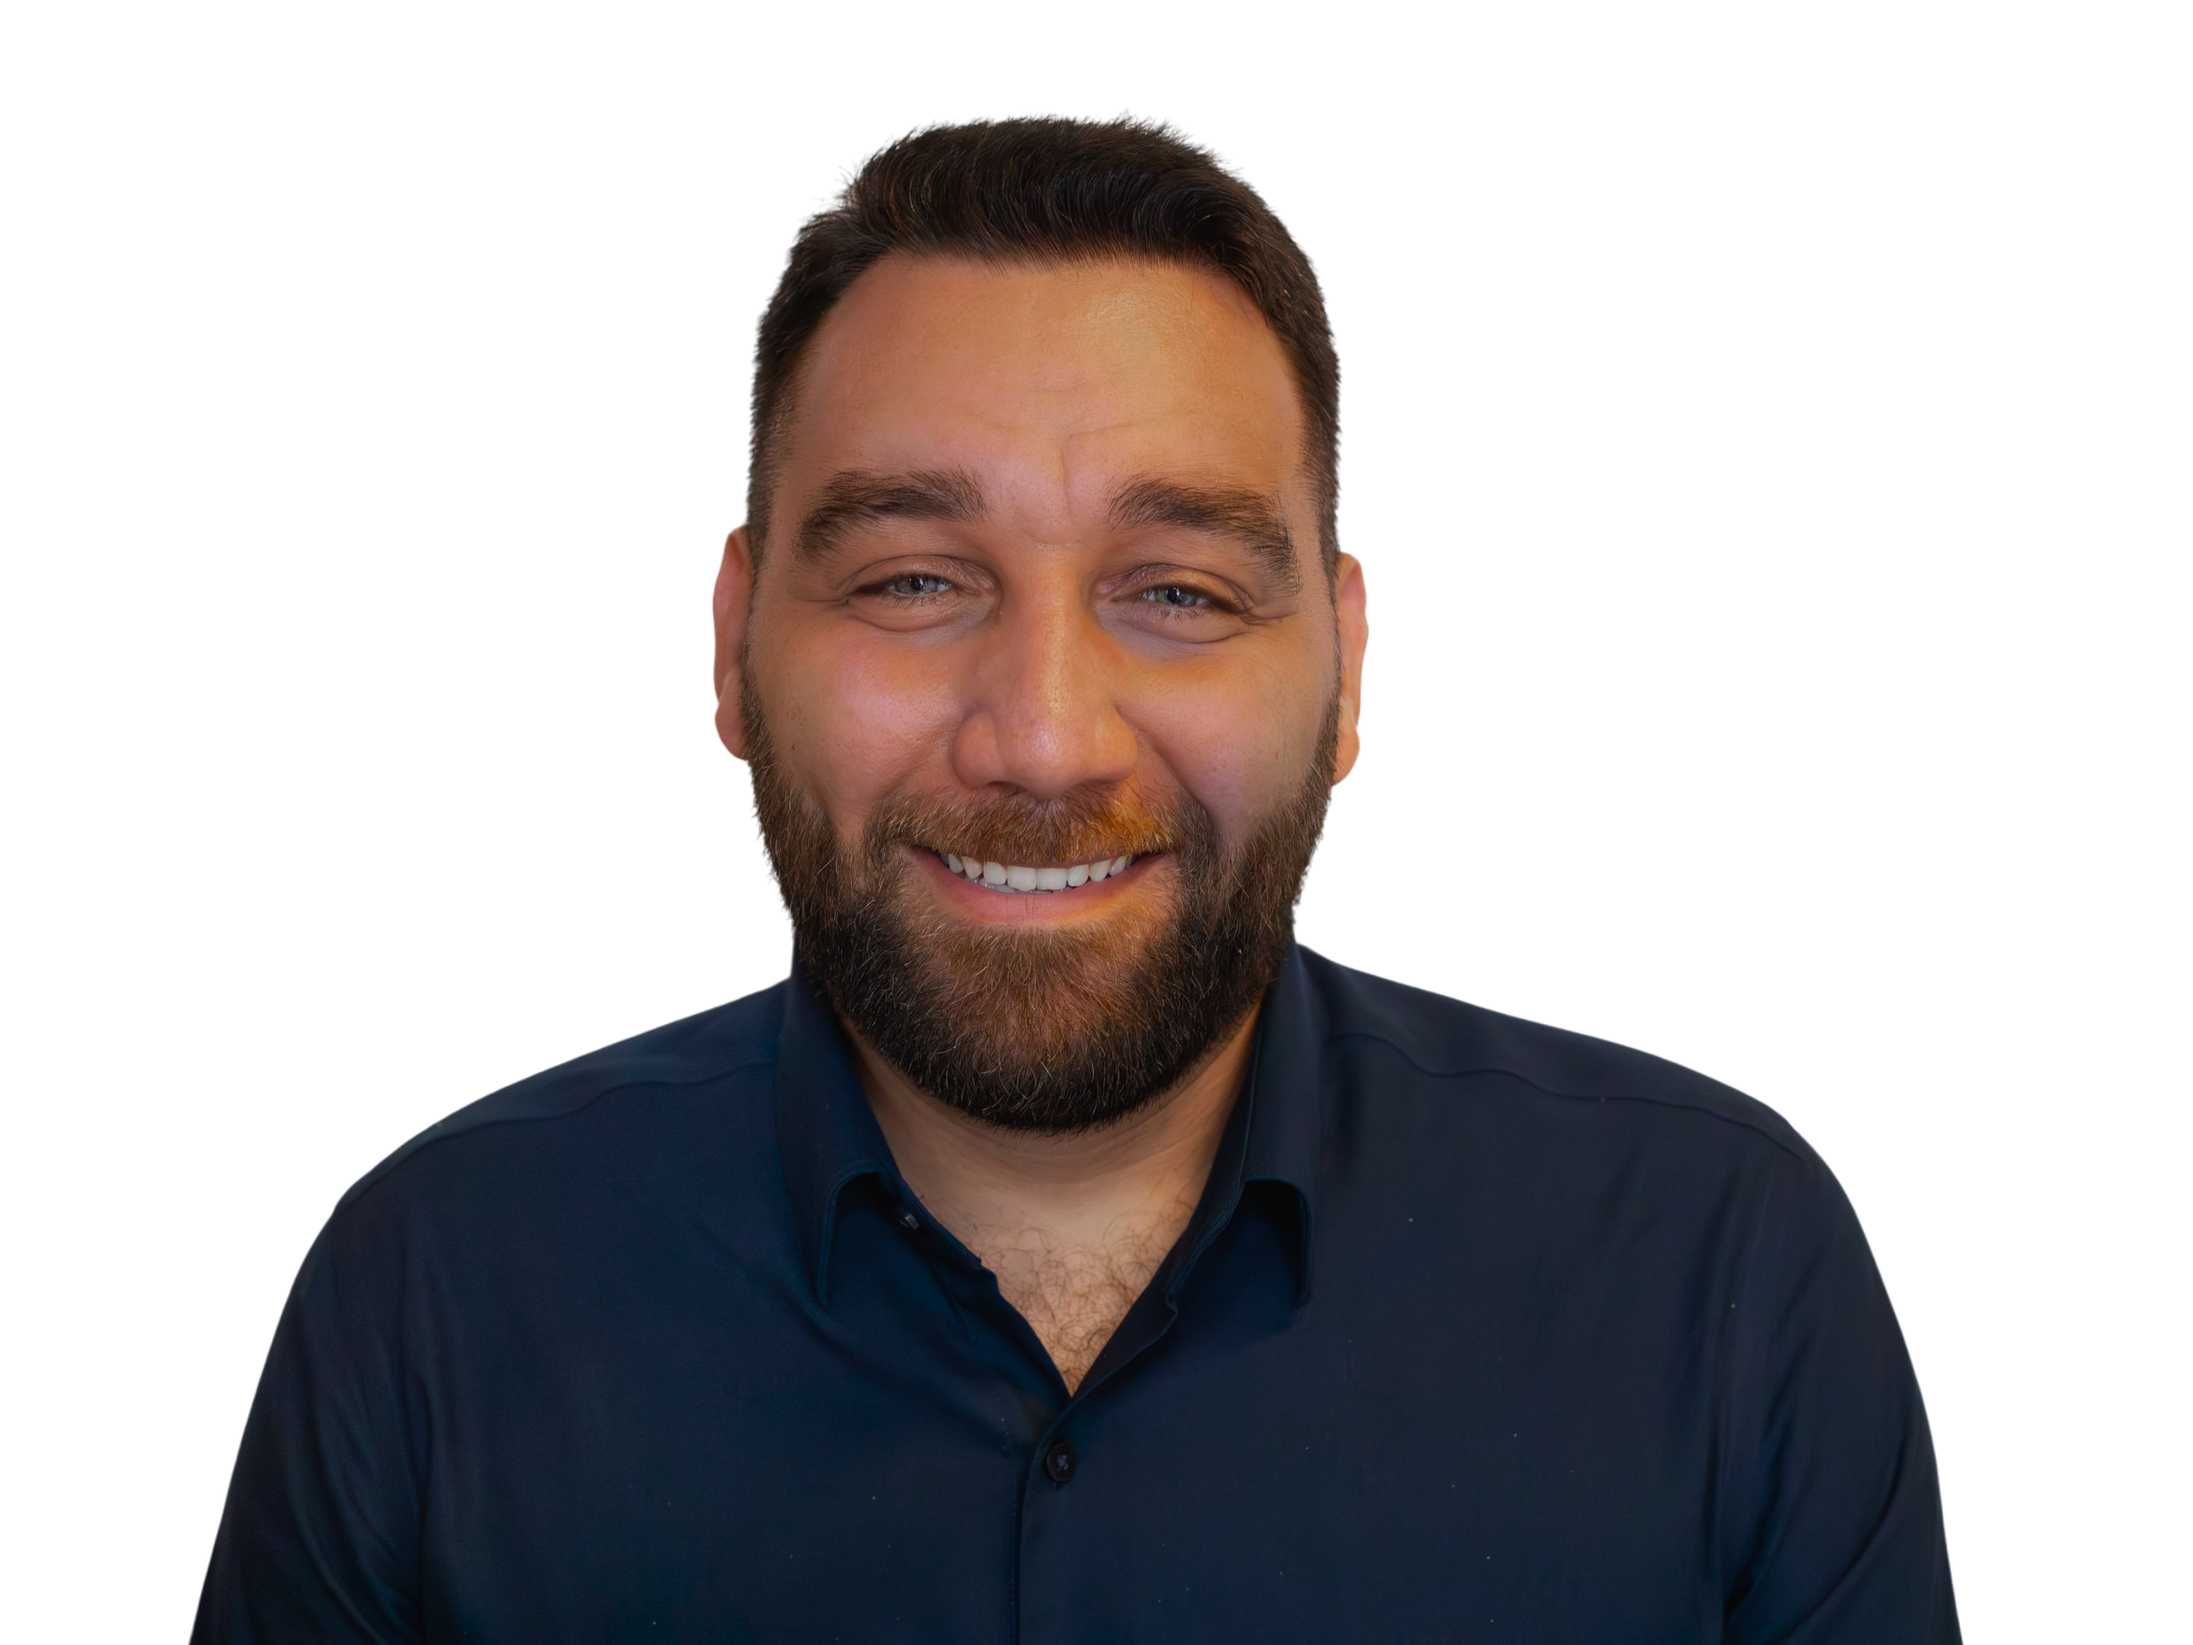
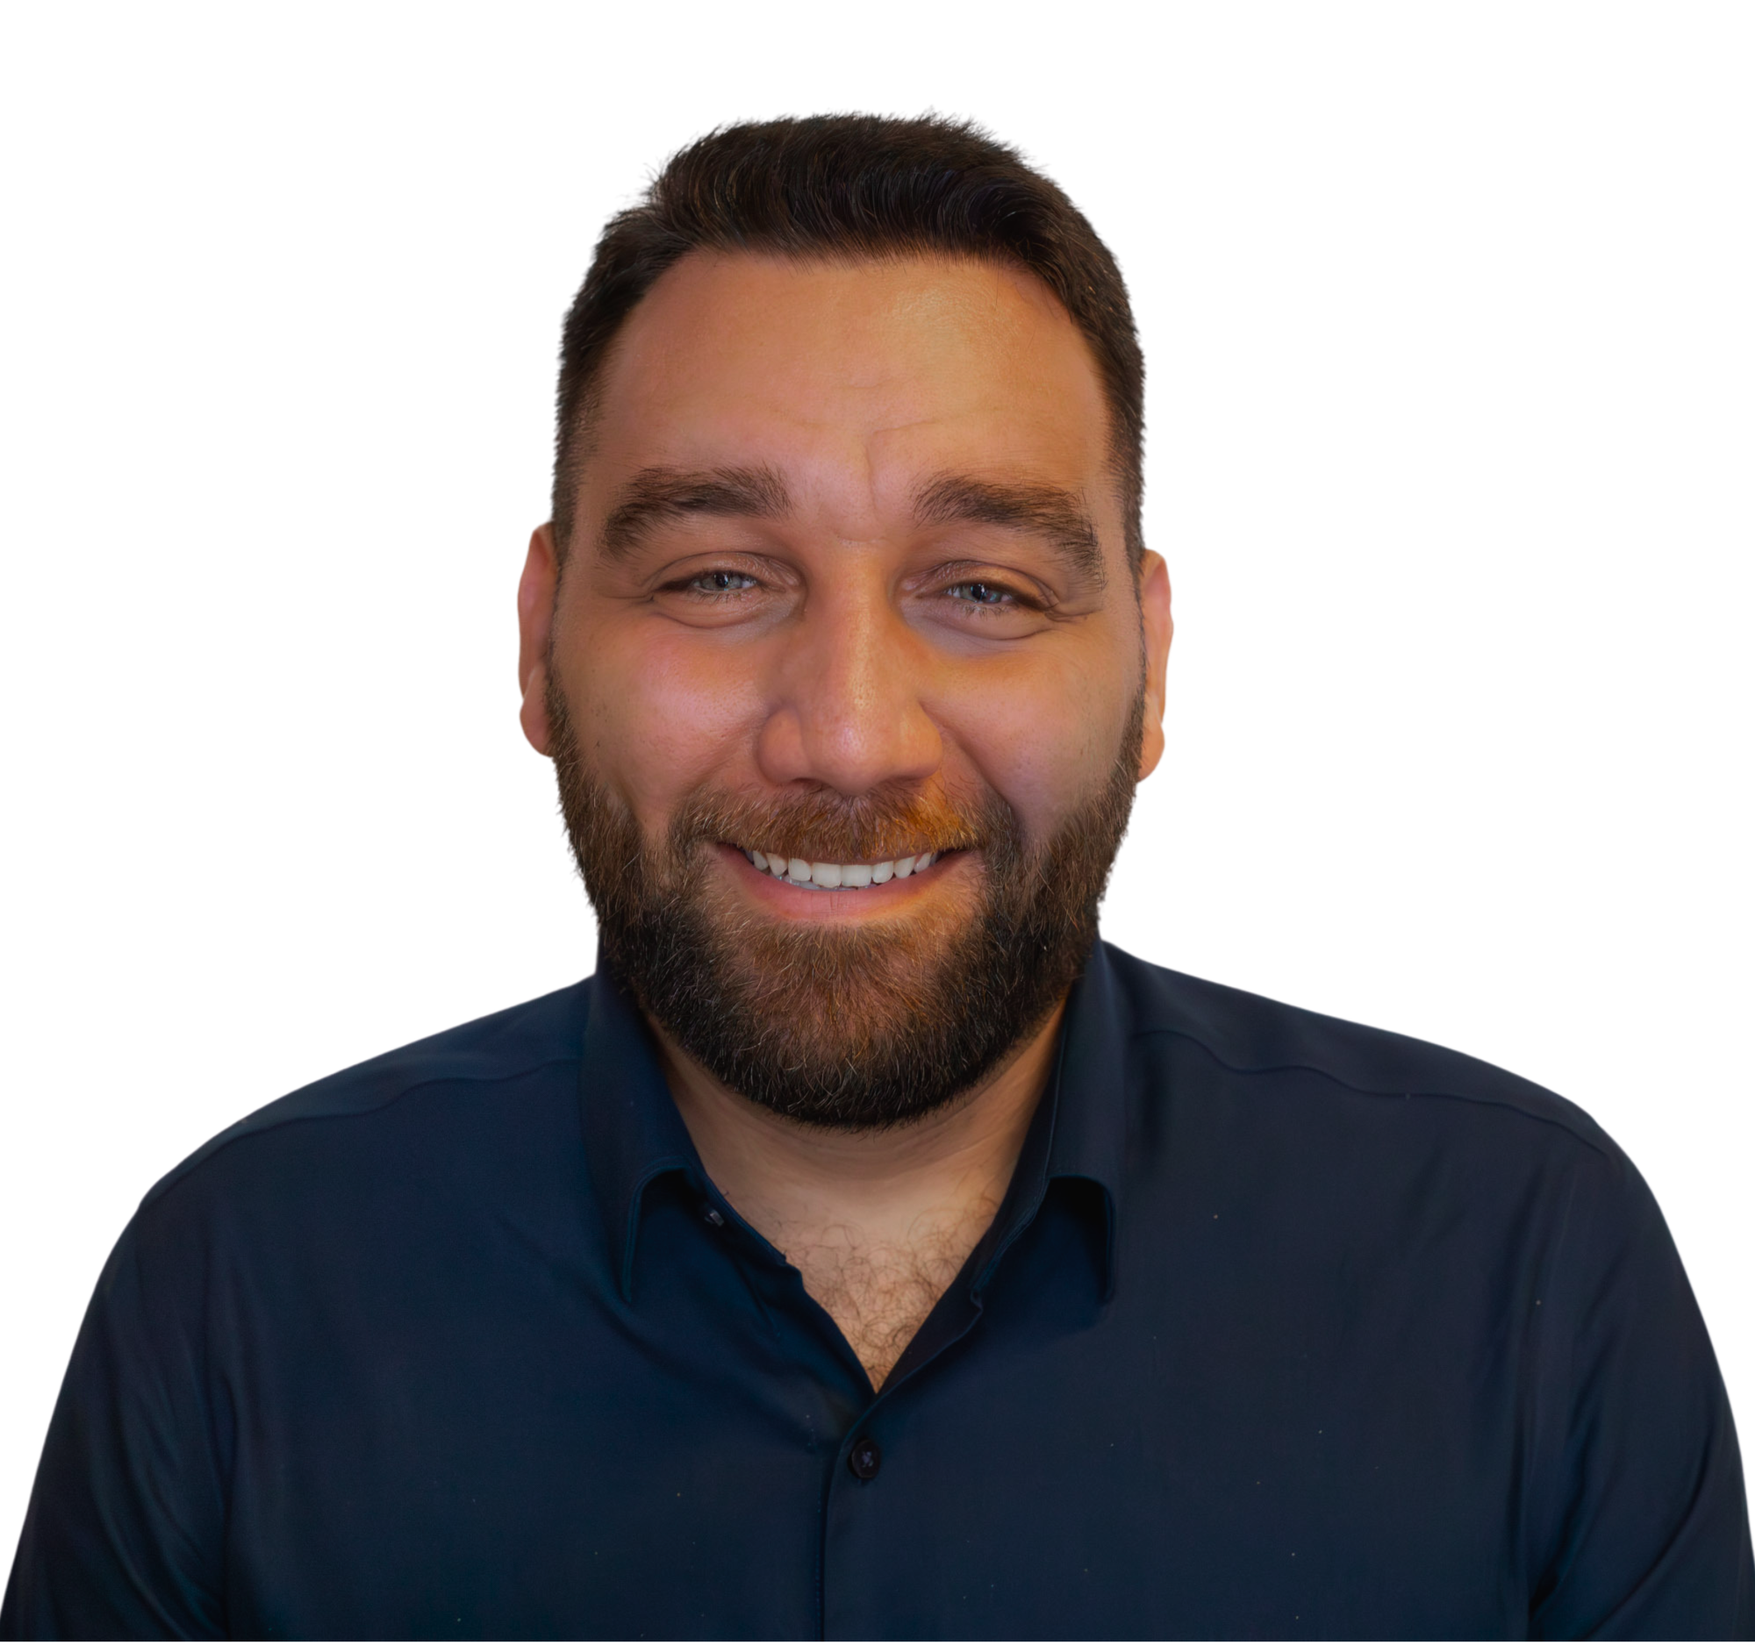
Add ReactSVG and About section title

Changed region(s): [[0.0, 0.0619, 1.0, 1.0], [0.341, 0.7424, 0.372, 0.7733]]

diff --git a/src/components/About/About.scss b/src/components/About/About.scss
@@ -4,13 +4,55 @@
 
 .about {
   display: flex;
+  flex-direction: column-reverse;
   justify-content: center;
-  margin-top: 2rem;
+  align-items: center;
+
+  @include tablet {
+    flex-direction: row;
+    justify-content: space-between;
+  }
+
+  &__text {
+    display: flex;
+    justify-content: center;
+    margin-top: 2rem;
+
+    @include tablet {
+      justify-content: space-between;
+      flex-wrap: wrap;
+      width: 25rem;
+    }
+  }
+
   &__photo {
     width: 30rem;
+    @include tablet {
+      width: 50rem;
+    }
     &--dark {
       filter: grayscale(1);
       width: 30rem;
+      @include tablet {
+        width: 50rem;
+      }
+    }
+  }
+
+  &__rings {
+    position: absolute;
+    width: 53rem;
+    height: 12.9rem;
+    flex-shrink: 0;
+    margin-left: -34rem;
+    z-index: -1;
+
+    @include tablet {
+      margin-left: -27rem;
+      left: 0;
+    }
+    @include desktop {
+      margin-left: -10rem;
     }
   }
 }

diff --git a/src/components/About/About.jsx b/src/components/About/About.jsx
@@ -1,11 +1,17 @@
 import React from "react";
 import "./About.scss";
-import photo from "../../assets/images/marwan-bg-removed-adjusted.png";
+import photo from "../../assets/images/marwan-bg-removed-adjusted.webp";
+import rings from "../../assets/images/pattern-rings.svg";
+import { ReactSVG } from "react-svg";
 
-function About({ colorMode, setColorMode }) {
+function About({ colorMode }) {
   return (
     <>
+      <ReactSVG src={rings} className="about__rings" />
       <section className="about">
+        <div className="about__text">
+          <h2>Nice to meet you! I'm Marwan Nofal</h2>
+        </div>
         <img
           src={photo}
           alt=""

diff --git a/src/App.jsx b/src/App.jsx
@@ -1,4 +1,4 @@
-import React, { useEffect, useState } from "react";
+import React, { useState } from "react";
 import "./App.scss";
 import Header from "./components/Header/Header";
 import About from "./components/About/About";
@@ -13,7 +13,7 @@ function App() {
   return (
     <>
       <Header colorMode={colorMode} setColorMode={setColorMode} />
-      <About colorMode={colorMode} setColorMode={setColorMode} />
+      <About colorMode={colorMode} />
     </>
   );
 }

diff --git a/src/App.scss b/src/App.scss
@@ -1,26 +1,2 @@
 @use "./styles/partials/media-queries" as *;
 @use "./styles/partials/global";
-
-.rings {
-  position: absolute;
-  width: 53rem;
-  height: 12.9rem;
-  flex-shrink: 0;
-  margin-left: -34rem;
-  top: 12.4rem;
-
-  @include tablet {
-    margin-left: -27rem;
-    top: 8.6rem;
-  }
-  @include desktop {
-    margin-left: -10rem;
-    top: 13.3rem;
-  }
-}
-
-.main {
-  display: flex;
-  align-items: center;
-  justify-content: center;
-}

diff --git a/src/styles/partials/_resets.scss b/src/styles/partials/_resets.scss
@@ -16,7 +16,7 @@ html {
 * {
   margin: 0;
   padding: 0;
-  background-color: grey;
+  // background-color: black;
   font-family: "Space Grotesk";
 }
 
